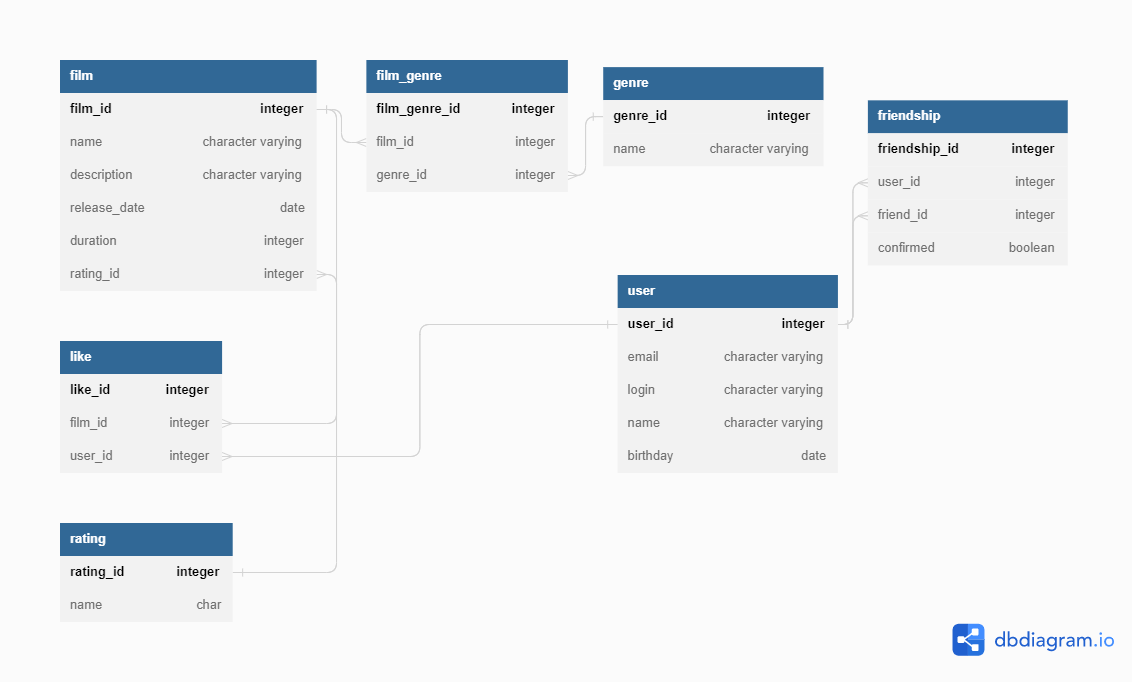
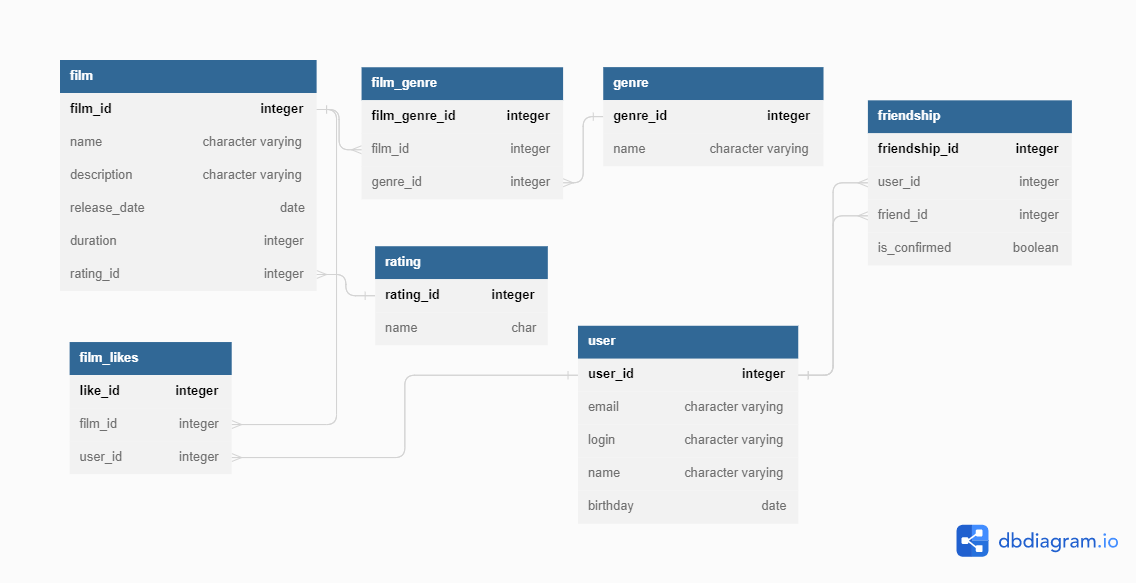
add DB schema

diff --git a/README.md b/README.md
@@ -4,7 +4,7 @@
 
 1. **film** - таблица фильмов
 2. **film_genre** - таблица связи фильма с жанром(тк у фильма может быть несколько жанров)
-3. **like** - таблица лайков(тк у фильма может быть несколько лайков)
+3. **film_likes** - таблица лайков(тк у фильма может быть несколько лайков)
 4. **rating** - таблица рейтингов
 5. **friendship** - таблица с id пользователей, которые дружат + статус дружбы
 6. **user** - таблица пользователей
@@ -12,40 +12,45 @@
 ## Запросы к БД:
 
 ### 1. Запрос для всех фильмов с рейтингом:
-  `SELECT f.film_id,
+  ```
+   SELECT f.film_id,
    f.name,
    f.description,
    f.release_date,
    f.duration,
    r.name
    FROM film f
-   LEFT JOIN rating r ON r.rating_id = f.rating_id`
-
+   LEFT JOIN rating r ON r.rating_id = f.rating_id
+```
 ### 2. Запрос для отображения всех пользователей:
-   `SELECT u.user_id,
+   ```
+   SELECT u.user_id,
    u.email,
    u.login,
    u.name,
    u.birthday
-   FROM user u`
+   FROM user u
+   ```
 
 ### 3. Запрос для отображения топ 10 наиболее популярных фильмов
-   `SELECT f.name,
+   ```
+   SELECT f.name,
    COUNT(l.user_id) likes
    FROM film f
-   LEFT JOIN like l ON f.film_id = l.film_id
+   LEFT JOIN film_likes l ON f.film_id = l.film_id
    GROUP BY name
    ORDER BY likes DESC
-   LIMIT 10`
+   LIMIT 10
+   ```
 
 ### 4. Запрос для отображения общих друзей с другим пользователем
-   `SELECT f.friend_id
-   FROM user u
-   LEFT JOIN friendship f on u.user_id=f.user_id
-   WHERE u.user_id=2 and f.confirmed=TRUE and f.friend_id IN(
-        SELECT f.friend_id
-        FROM user u
-        LEFT JOIN friendship f on u.user_id=f.user_id
-        WHERE u.user_id=1 and f.confirmed=TRUES)`
+   ```
+   SELECT f.friend_id
+   FROM friendship f 
+   WHERE f.user_id=2 and f.confirmed=TRUE and f.friend_id IN(
+     SELECT f.friend_id
+     FROM friendship f
+     WHERE f.user_id=1 and f.confirmed=TRUE)
+```
 
 
